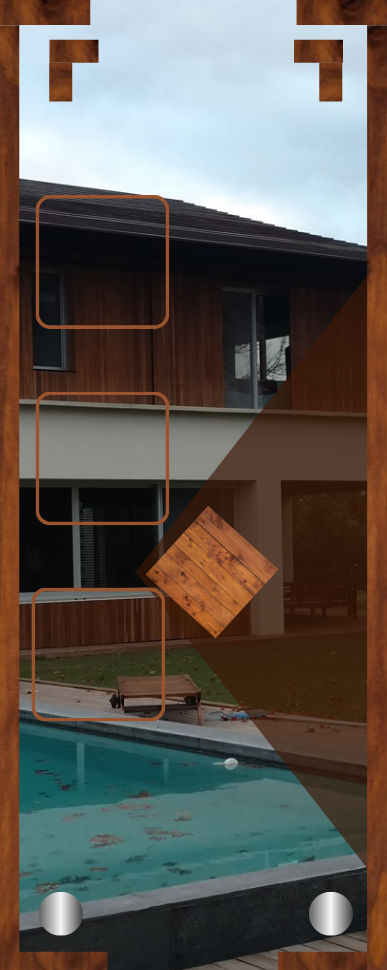
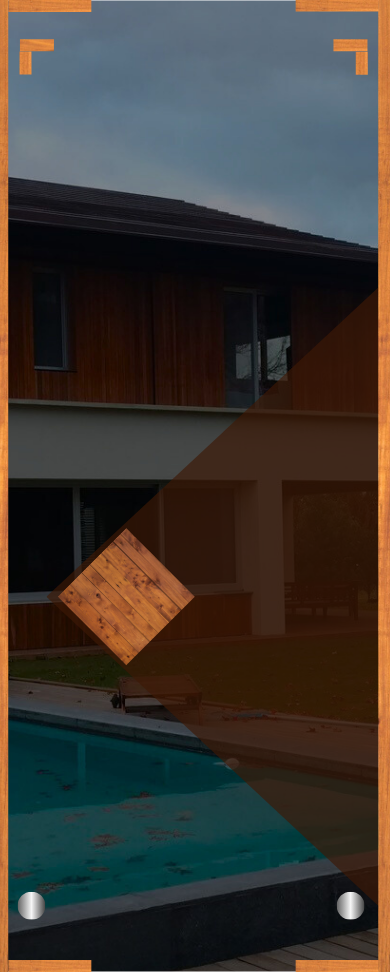
responsive front

diff --git a/client/src/Components/Navbar/Navbar.jsx b/client/src/Components/Navbar/Navbar.jsx
@@ -1,9 +1,10 @@
 import { Link } from 'react-router-dom';
 import logoImg from '/public/logo_image.jpg';
-import { FaFacebook, FaInstagram, FaBars } from 'react-icons/fa';
+import { FaFacebook, FaInstagram, FaBars, FaTimes } from 'react-icons/fa';
 import { useEffect, useState } from 'react';
 
 import { slide as Menu } from 'react-burger-menu';
+import { AiOutlineClose } from 'react-icons/ai';
 
 const Navbar = () => {
 	const [isNavVisible, setIsNavVisible] = useState(true); // Estado para controlar la visibilidad de la barra de navegación
@@ -11,6 +12,12 @@ const Navbar = () => {
 
 	const [isMobile, setIsMobile] = useState(false);
 	const [menuOpen, setMenuOpen] = useState(false);
+
+	const [isMobileMenuOpen, setIsMobileMenuOpen] = useState(false);
+
+	const toggleMobileMenu = () => {
+		setIsMobileMenuOpen(!isMobileMenuOpen);
+	};
 
 	useEffect(() => {
 		const handleResize = () => {
@@ -66,105 +73,152 @@ const Navbar = () => {
 		});
 	}, []);
 
+	// Define una función para abrir/cerrar el menú
+
 	return (
-		<header className=" fixed z-[999]">
-			<nav
-				className={`bg-white flex flex-row items-center justify-between w-[98vw] h-[5rem] mb-4 mt-0 p-0 rounded-xl shadow-2xl shadow-black ${
-					isNavVisible
-						? ' ease-in transition-transform'
-						: ' translate-y-[-120%]  ease-in transition-transform'
-				} `}>
-				<div className=" ml-[1rem]">
-					<Link to={'/'}>
-						<img
-							src={logoImg}
-							alt="Logo Hard Floor"
-							className="max-w-[5.8rem] p-2 rounded-full h-auto object-cover"
-						/>
-					</Link>
-				</div>
+		<header className="fixed z-[999]">
+			{isMobile ? (
+				// Renderiza el menú burger solo en dispositivos móviles
+				<nav
+					className={`bg-white flex flex-row items-center justify-between w-[98vw]  lg:h-[5rem] mb-4 mt-0 p-0 rounded-xl shadow-2xl shadow-black ${
+						isNavVisible
+							? ' ease-in transition-transform'
+							: ' translate-y-[-120%]  ease-in transition-transform'
+					} `}>
+					<div className="ml-[1rem]">
+						<Link to={'/'}>
+							<img
+								src={logoImg}
+								alt="Logo Hard Floor"
+								className="max-w-[5.8rem] p-2 rounded-full h-auto object-cover"
+							/>
+						</Link>
+					</div>
+					<div className="mr-[1rem]">
+						{isMobileMenuOpen ? (
+							<FaTimes
+								className="text-3xl text-black"
+								onClick={toggleMobileMenu}
+							/>
+						) : (
+							<FaBars
+								className="text-3xl text-black"
+								onClick={toggleMobileMenu}
+							/>
+						)}
+					</div>
+				</nav>
+			) : (
+				// Renderiza la lista de elementos en computadoras
+				<nav
+					className={`bg-white flex flex-row items-center justify-between w-[98vw]  lg:h-[6rem] mb-4 mt-0 p-0 rounded-xl shadow-2xl shadow-black ${
+						isNavVisible
+							? ' ease-in transition-transform'
+							: ' translate-y-[-120%]  ease-in transition-transform'
+					} `}>
+					<div className="ml-[1rem]">
+						<Link to={'/'}>
+							<img
+								src={logoImg}
+								alt="Logo Hard Floor"
+								className="max-w-[6.9rem] p-2 rounded-full h-auto object-cover"
+							/>
+						</Link>
+					</div>
 
-				<div className="flex items-center gap-[10rem] ">
-					{/* ... */}
-					{isMobile ? (
-						<>
-							<button
-								className="block md:hidden w-8 h-8 mr-4"
-								onClick={() => setMenuOpen(!menuOpen)}>
-								<FaBars className="text-3xl text-black" />
-							</button>
-							<Menu>
-								<a
-									href="#home"
-									className="menu-item smooth-scroll">
-									INICIO
-								</a>
-								<a
-									href="#serviciosPrev"
-									className="menu-item smooth-scroll">
-									SERVICIOS
-								</a>
-
-								<Link
-									to="/precios"
-									className="menu-item smooth-scroll">
-									PRECIOS
-								</Link>
-								<a
-									href="#nosotrosPrev"
-									className="menu-item smooth-scroll">
-									NOSOTROS
-								</a>
-								<a
-									href="#contactoPrev"
-									className="menu-item smooth-scroll">
-									CONTACTO
-								</a>
-							</Menu>
-						</>
-					) : (
-						<ul className="flex flex-row justify-center gap-6 text-black text-xl font-bold">
-							<a
-								href="#home"
-								className="nav-link smooth-scroll">
-								INICIO
-							</a>
-							<a
-								href="#serviciosPrev"
-								className="nav-link smooth-scroll">
-								SERVICIOS
-							</a>
-							<Link
-								to="/precios"
-								className="">
-								PRECIOS
-							</Link>
-							<a
-								href="#nosotrosPrev"
-								className="nav-link smooth-scroll">
-								NOSOTROS
-							</a>
-							<a
-								href="#contactoPrev"
-								className="nav-link smooth-scroll">
-								CONTACTO
-							</a>
-						</ul>
-					)}
-					<ul className="text-black flex justify-center gap-4 mr-4  ">
+					<ul className="flex flex-row justify-center gap-6 text-black text-xl font-bold">
+						<a
+							href="#home"
+							className="nav-link smooth-scroll">
+							INICIO
+						</a>
+						<a
+							href="#serviciosPrev"
+							className="nav-link smooth-scroll">
+							SERVICIOS
+						</a>
+						<a
+							href="#preciosPrev"
+							className="nav-link smooth-scroll">
+							PRECIOS
+						</a>
+						<a
+							href="#nosotrosPrev"
+							className="nav-link smooth-scroll">
+							NOSOTROS
+						</a>
+						<a
+							href="#contactoPrev"
+							className="nav-link smooth-scroll">
+							CONTACTO
+						</a>
+					</ul>
+					<ul className="text-black flex justify-center gap-4 mr-4">
 						<Link
 							to={'https://instagram.com/hard.floor?igshid=MzRlODBiNWFlZA=='}
 							target="blank_">
-							<FaInstagram className="text-3xl " />
+							<FaInstagram className="text-3xl nav-link smooth-scroll" />
 						</Link>
 						<Link
 							to={'https://www.facebook.com/hardfloor1?mibextid=LQQJ4d'}
 							target="blank_">
-							<FaFacebook className="text-3xl" />
+							<FaFacebook className="text-3xl nav-link " />
 						</Link>
 					</ul>
-				</div>
-			</nav>
+				</nav>
+			)}
+
+			{/* Renderiza el menú burger en dispositivos móviles */}
+			{isMobile && (
+				<Menu
+					isOpen={isMobileMenuOpen}
+					onStateChange={({ isOpen }) => setIsMobileMenuOpen(isOpen)}
+					right
+					className="bg-[#8b4a0cf6]  max-h-[84vh] min-w-[80vw] text-2xl rounded-ss-2rem rounded-bl-[220px] ">
+					<a
+						onClick={() => setIsMobileMenuOpen(false)}
+						href="#home"
+						className=" mt-[6rem] smooth-scroll">
+						INICIO
+					</a>
+					<a
+						onClick={() => setIsMobileMenuOpen(false)}
+						href="#serviciosPrev"
+						className=" mt-8 smooth-scroll">
+						SERVICIOS
+					</a>
+					<a
+						onClick={() => setIsMobileMenuOpen(false)}
+						href="#preciosPrev"
+						className=" mt-8 smooth-scroll">
+						PRECIOS
+					</a>
+					<a
+						onClick={() => setIsMobileMenuOpen(false)}
+						href="#nosotrosPrev"
+						className="mt-8 smooth-scroll">
+						NOSOTROS
+					</a>
+					<a
+						onClick={() => setIsMobileMenuOpen(false)}
+						href="#contactoPrev"
+						className="mt-8 smooth-scroll">
+						CONTACTO
+					</a>
+					<div className="flex flex-row ml-[8.5rem] mt-8">
+						<Link
+							to={'https://instagram.com/hard.floor?igshid=MzRlODBiNWFlZA=='}
+							target="blank_">
+							<FaInstagram className="text-4xl" />
+						</Link>
+						<Link
+							to={'https://www.facebook.com/hardfloor1?mibextid=LQQJ4d'}
+							target="blank_">
+							<FaFacebook className="text-4xl mt-4" />
+						</Link>
+					</div>
+				</Menu>
+			)}
 		</header>
 	);
 };

diff --git a/client/src/Components/ImagenPrincipal.jsx b/client/src/Components/ImagenPrincipal.jsx
@@ -12,12 +12,61 @@ const ImagenPrincipal = () => {
 			id="home"
 			className="flex flex-col mt-0 ">
 			{isMobile ? (
-				<div className='mb-[2rem]'>
+				<div className="mb-[2rem] mt-[5rem] flex flex-col justify-center items-center">
 					<img
 						src={imageMobile}
 						alt="Deck Mobile Background"
-						className='relative left-[2.05rem] '
+						className="relative -z-1 left-[0rem]   "
 					/>
+
+					<div className="relative bottom-[57.4rem] right-[2px] flex justify-center z-99 tracking-[-0.17em] leading-6 ">
+						<h1 className="text-white font-extrabold text-[1.6rem] w-[22.8rem]">
+							DESCUBRÍ LA EXCELENCIA EN PISOS DE MADERA
+						</h1>
+					</div>
+
+					<div className=" relative bottom-[55.5rem]  grid grid-cols-2 gap-6 gap">
+						<img
+							src={imagen1}
+							alt=""
+							className="w-[150px] h-[165px] object-cover rounded-lg  border-4 border-[#4d3518] shadow-lg shadow-black "
+						/>
+						<img
+							src={imagen2}
+							alt=""
+							className="w-[150px] h-[165px] object-cover rounded-lg  border-4 border-[#4d3518] shadow-lg shadow-black "
+						/>
+						<img
+							src={imagen3}
+							alt=""
+							className="w-[150px] h-[165px] object-cover rounded-lg  border-4 border-[#4d3518] shadow-lg shadow-black "
+						/>
+					</div>
+
+					<div className=" relative left-[4.5rem] bottom-[56rem] flex justify-center">
+						<h1 className="font-extrabold text-4xl w-[10rem] text-right tracking-[-0.2rem] leading-[1.4rem]">
+							CALIDAD <span className=" text-red-600">PREMIUM</span>
+						</h1>
+					</div>
+
+					<ul className="relative z-1 flex flex-col justify-center left-[4.2rem] bottom-[53rem] text-right text-2xl font-extrabold leading-[2rem] ">
+						<li>DISEÑO</li>
+						<li>CALIDAD</li>
+						<li>CONFORT</li>
+						<li>TECNOLOGÍA</li>
+					</ul>
+
+					<div className="relative z-1 flex justify-center right-[4.2rem] bottom-[61.2rem]">
+						<h1 className=" text-white font-medium text-lg w-[7rem]  tracking-widest leading-[1.3rem]">
+							COTIZÁ<span className="font-extrabold"> HOY </span>MISMO
+						</h1>
+					</div>
+
+					<div className="relative z-1 flex justify-center right-[0.2rem] bottom-[44.7rem]">
+						<h1 className=" text-white font-extrabold text-xl w-[58rem] tracking-[-0.02rem] ">
+							50 AÑOS DE EXPERIENCIA
+						</h1>
+					</div>
 				</div>
 			) : (
 				<div>

diff --git a/client/src/Views/Home/Home.jsx b/client/src/Views/Home/Home.jsx
@@ -350,7 +350,9 @@ const Home = () => {
 
 			{/*  */}
 			<div>
-				<div className="mt-[8rem] w-[92vw] py-4  px-8 bg-[#dad2cb] text-black flex flex-col items-start gap-8">
+				<div
+					id="preciosPrev"
+					className="mt-[8rem] w-[92vw] py-4  px-8 bg-[#dad2cb] text-black flex flex-col items-start gap-8">
 					<h2 className=" self-center text-4xl">Precios</h2>
 					<div className=" flex flex-col items-start w-[100%]">
 						<ul className=" text-left flex flex-col gap-8 w-[100%]">

diff --git a/client/src/index.css b/client/src/index.css
@@ -156,6 +156,7 @@ body {
 		#842c0c,
 		#8f2d03
 	);
+	position:
 }
 
 .sombra-deck {
